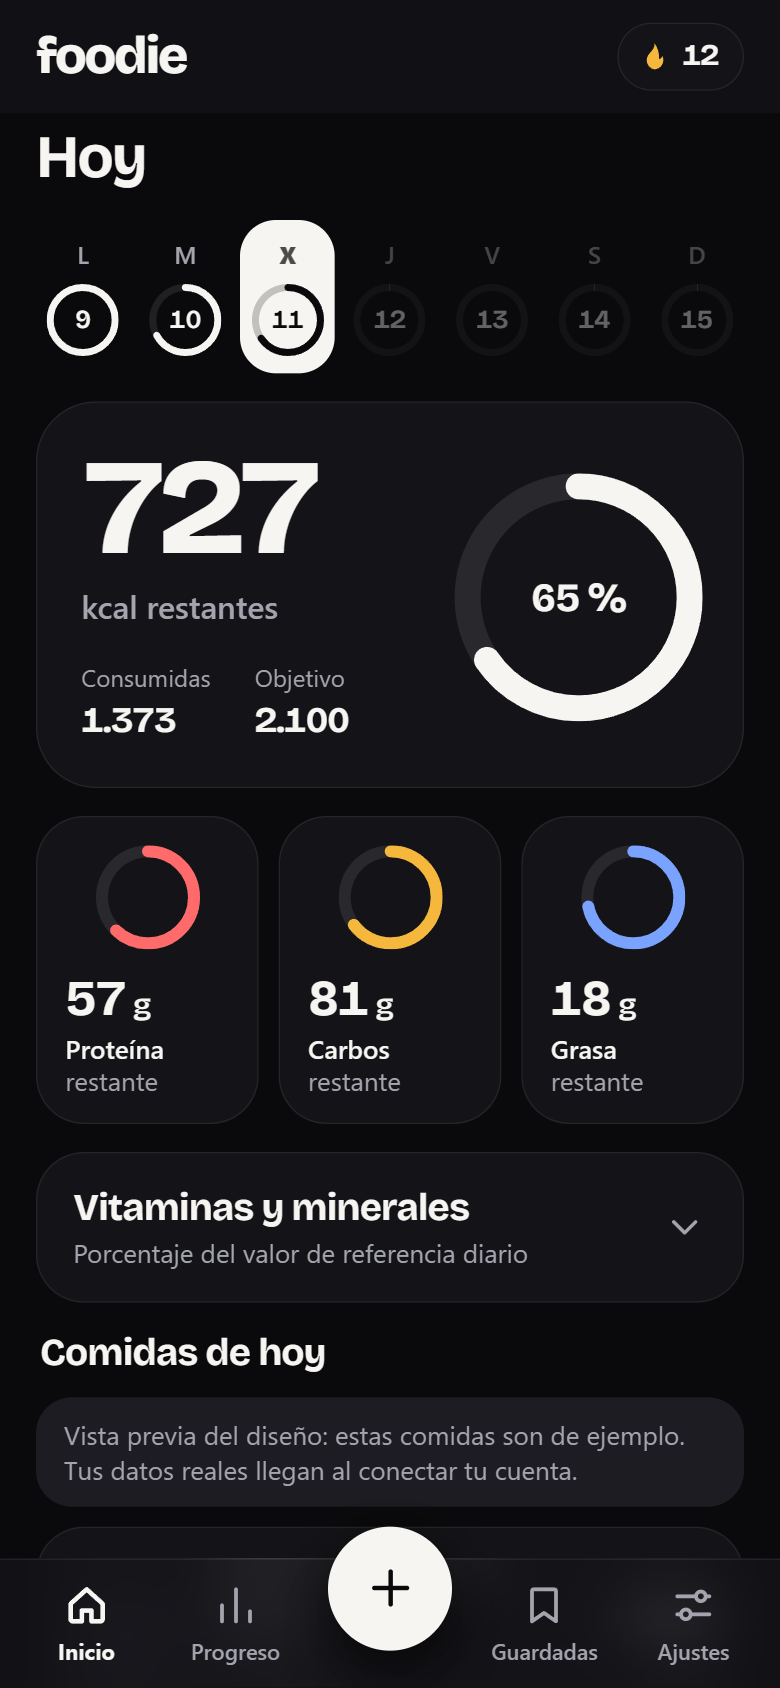
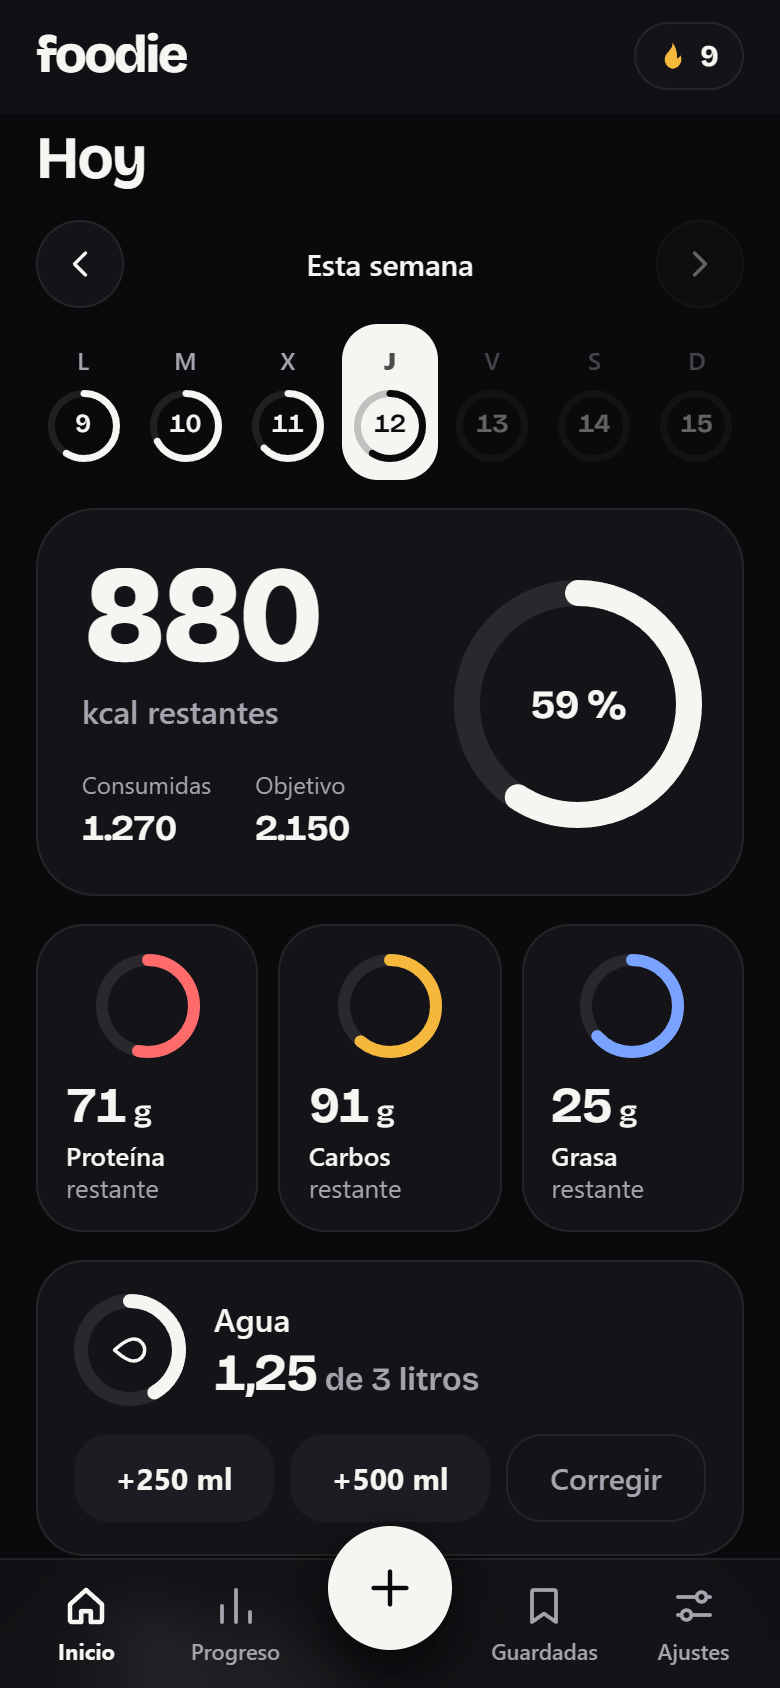
Rewrite the README around why the app exists, the decisions behind it and how it is tested

diff --git a/app/sw.js b/app/sw.js
@@ -3,7 +3,7 @@
    origins (sign-in, cloud sync, food databases, AI) are never intercepted.
    The block below is written by `npm run stamp`; a test fails if it is out of date. */
 /* stamp:start */
-const VERSION = '69d741300f21';
+const VERSION = '73d810f90be2';
 const SHELL = [
   "./",
   "./boot.js",

diff --git a/README.md b/README.md
@@ -1,70 +1,113 @@
 # foodie
 
-A mobile-first PWA to track calories, macros and micronutrients without weighing your food: take a photo of the plate, scan a barcode or search a food, then fix the estimate with a slider.
+A mobile-first PWA to track calories, macros, vitamins and minerals without weighing your food. Log a meal, then fix the portion with a slider: every number is recalculated on the device, instantly.
 
 **Live app:** https://imsothe.github.io/foodie/ (open it on your phone and add it to the home screen)
 
 <p>
-  <img src="docs/img/home-dark.png" alt="Home screen in dark mode: calories left, macro rings and the week strip" width="280">
-  <img src="docs/img/meal-editor-light.png" alt="Ingredient editor in light mode: one slider per ingredient" width="280">
+  <img src="docs/img/home-dark.png" alt="Home in dark mode: calories left, macro rings, water and the week strip" width="250">
+  <img src="docs/img/meal-editor-light.png" alt="Ingredient editor in light mode: one slider per ingredient" width="250">
+  <img src="docs/img/onboarding-dark.png" alt="First onboarding question in dark mode" width="250">
 </p>
 
-## Status
+## Why this exists
 
-Early. The app is being built in steps, and this README only lists what exists.
+I wanted to track what I eat without weighing food, and the two kinds of app on offer each fail in their own way.
 
-| Step | What | State |
-|---|---|---|
-| 1 | Architecture and data model | Done |
-| 2 | Repository, PWA shell, design system, GitHub Pages deploy | Done |
-| 3a | Local-first app: profile and goals (deficit, maintenance, surplus), daily log, search of basic foods, favourites, water, steps typed by hand, progress, export | Done |
-| 3b | Google sign-in and cloud sync | Next |
-| 4 | Barcode scanner (Open Food Facts) and photo analysis with AI | Planned |
+The fast ones (take a photo, get calories) are subscription products, and when the AI misjudges a portion, correcting it is slow: you retype numbers or ask the AI again. The free ones make you search and weigh everything, which is hard to keep up. I had already built an expense tracker for myself and learned from it that if logging takes effort, even its author stops using it.
 
-What works today, all on your device (nothing is sent anywhere, there is no account yet):
+So the goal was set before any code: **logging a meal has to be easier than not logging it**, and it has to cost nothing to run.
 
-- **Onboarding:** a few questions (sex, age, height, weight, activity, goal) and an editable daily plan for calories, protein, carbohydrates, fat, water and steps, estimated with the Mifflin-St Jeor formula. These are estimates, not medical advice.
-- **Log a meal by searching** about 100 common foods in Spain (portions, grams slider, several foods per meal), then fix the grams afterwards. Duplicate a meal on another day, save it as a favourite, delete it with undo.
-- **Home:** calories left, macros, water, steps, vitamins and minerals against sex-specific reference values, and a week strip you can move back through.
-- **Progress:** month calendar of the days you met your goal, average calories per week, weight history.
-- **Settings:** edit your profile and goals (past days keep the goals they had), export your data as JSON, delete it from the device.
+## How the idea took shape
 
-Not there yet: sign-in and cloud copy, and the other three options of the `+` menu (photo, barcode, nutrition label), which show a notice. Steps are typed by hand for now.
+I started by taking apart the experience of the photo calorie trackers that people actually stick with: a week strip at the top, one big "calories left" ring, three macro cards, a camera one tap away. That part works, so foodie keeps the pattern (with its own design, name and code).
 
-## The idea
+Then I looked for where they hurt, and it came down to one design decision. They store a meal as a result: "chicken with rice, 628 kcal". Change the portion and the result is stale, so the app has to recompute it somewhere else.
 
-Photo-based calorie trackers are fast, but when the AI misjudges a portion, fixing it is slow and usually costs another AI call. foodie stores every food the same way, whatever its source:
+foodie stores every food the same way, whatever its source:
 
 ```
 composition per 100 g  +  grams on the plate
 ```
 
-Totals are always derived (`per100 × grams / 100`), never stored. Moving a slider only changes one number, so calories, macros and 18 vitamins, minerals and other nutrients are recalculated on the device, instantly and for free. The AI is asked once for the two things it is good at: naming the ingredients and estimating their weight.
+Totals are never stored. They are always derived (`per100 × grams / 100`). Moving a slider changes one number, and calories, macros and 18 other nutrients follow on the device, with no network and no AI call. The AI is asked once for the two things it is good at: naming what is on the plate and estimating how much there is. Everything after that is arithmetic.
 
-Three ways to log, only one of them uses AI:
+That one rule shaped the rest:
 
-1. **Barcode**: exact data from the package through Open Food Facts.
-2. **Search and saved meals**: a local table of basic foods and one-tap favourites.
-3. **Photo**: a vision model returns each ingredient with its estimated grams, a min–max range and its composition per 100 g.
+- A photo, a barcode, a nutrition label and a typed search all produce the same kind of record, so there is one editor, one set of totals and one test suite for all of them.
+- Three of the four ways to log use no AI at all, so the app stays useful when the AI is wrong, slow or out of quota.
+- Micronutrients come for free: if the composition has them, the totals have them.
+
+## Decisions that mattered
+
+| Decision | Why | What it cost |
+|---|---|---|
+| No framework, no build step, no runtime dependencies | The app is a handful of screens. Plain ES modules are served as written, there is no supply chain to audit, and the Content Security Policy can stay at `script-src 'self'`. | More hand-written UI code, and a small tool (`npm run stamp`) to version the offline cache. |
+| The DOM is built with `createElement` and text nodes, never from HTML strings | Text from a food database or an AI must never be able to run as code. This makes that a property of the code, not a matter of remembering to escape. | A slightly more verbose way to write screens. |
+| Local-first: the app works fully without an account | It opens instantly, works offline, and sign-in becomes a backup feature instead of a gate. | Sync has to be designed around conflicts later (meals are keyed by id for that reason). |
+| Carbohydrate means available carbohydrate, fibre counted apart | It is what EU labels and Open Food Facts use. Mixing it with the US "total carbohydrate" definition would silently double-count fibre. | US-sourced values are converted on import, and the energy check uses the EU factors (fibre at 2 kcal/g). |
+| Food values come from USDA FoodData Central, not written by hand | The first table was typed from memory and passed every test, because the tests only checked internal consistency. I then compared it with the Spanish BEDCA database and found real gaps. BEDCA's terms do not allow republishing, so the table was rebuilt from USDA SR Legacy (public domain), each entry carrying its source id. | Seven Spain-specific foods have no USDA entry and are labelled `estimate`. |
+| Goals from a standard formula, with floors | Mifflin-St Jeor for energy, protein and fat per kg of body weight, sex-specific reference intakes. A deficit never goes below a safe floor, and the app says when the floor was applied. | These are estimates, and the app says so. It is not medical advice. |
+| Noncommercial licence instead of MIT | The code is public so it can be read and judged, but I may turn this into a product. | It is source-available, not open source in the strict sense. |
+
+## Where it stands
+
+Built in steps. This list only contains what exists.
+
+| Step | What | State |
+|---|---|---|
+| 1 | Architecture and data model | Done |
+| 2 | Repository, PWA shell, design system, automatic deploy | Done |
+| 3a | Local-first app: profile and goals, daily log, food search, favourites, water, steps, progress, export | Done |
+| 3b | Security hardening and the security test suite | Done |
+| 3c | Google sign-in and cloud sync (Firebase project is ready, the code is not) | Next |
+| 4 | Camera: photo analysis with AI, barcode (Open Food Facts), nutrition label | Planned |
+
+What works today, all on your device:
+
+- **Onboarding:** sex, age, height, weight, activity and goal (lose, maintain, gain) give an editable daily plan: calories, protein, carbohydrate, fat, water and steps.
+- **Log a meal by search** from about 100 common foods, with typical portions and a grams slider, several foods per meal. Fix the grams later, duplicate the meal on another day, save it as a favourite, delete with undo.
+- **Home:** calories left, macros, water, steps, and vitamins and minerals against reference values for your sex. A week strip you can move back through.
+- **Progress:** a month calendar of the days you met your goal, average calories per week, weight history.
+- **Settings:** edit profile and goals (past days keep the goals they had), light and dark theme, export everything as JSON, delete it from the device.
+
+Not there yet: sign-in and cloud copy, and the three camera options of the `+` menu, which show a notice. Steps are typed by hand.
+
+## Testing and security
+
+This is the part I would look at first in someone else's repo, so it is the part I spent the most care on.
+
+```bash
+npm test          # 169 tests, no dependencies, about a second
+npm run coverage  # 98 % lines, 90 % branches overall; the pure core is at 100 % lines
+```
+
+- **Unit tests** for every pure module: nutrition maths, goals (worked examples by hand for a man and a woman, floors, monotonicity), dates across daylight-saving changes, search, progress, the store.
+- **Hostile-input fuzzing.** Every function that cleans data read from storage is hit with 33,000 generated inputs from a seeded generator: wrong types, `NaN`, huge numbers, 3,000 levels of nesting, getters that throw, `__proto__` and `constructor` keys. For each one the suite asserts: it never throws, the result is valid or null, cleaning twice equals cleaning once, and `Object.prototype` is untouched. A failure prints the seed to replay it.
+- **An injection corpus** (script tags, event-handler attributes, `javascript:` URLs, bidi overrides, 100 kB strings) is pushed through every text field and through the DOM helper, which is tested against a fake DOM to prove payloads end up as text nodes.
+- **Static guards** that run in CI: the CSP stays closed, no inline code, no `innerHTML` or `eval`, the offline cache matches the published files, every workflow action is pinned to a commit hash, no secrets or personal data are tracked, storage keys stay in the app's own namespace.
+- **A real-browser check** with the same payloads seeded into storage and hostile URLs, repeatable with `tools/xss_fuzz_seed.js`.
+
+The review that led to this found real defects, each now covered by a test that fails without its fix: a crafted link (`#constructor`) that blanked the app, a meal id of `__proto__` that corrupted a stored day, invisible and text-reversing characters accepted in names, a DOM helper that would have set an inline handler if given a string, and no size limits on stored data.
+
+[SECURITY.md](SECURITY.md) has the threat model, including what is **not** defended. The most important limit: GitHub Pages serves all of an account's projects from one origin, so the browser does not isolate this app's local data from sibling apps.
 
 ## How it is built
 
-- **No framework and no build step.** Plain ES modules served as they are; the `app/` folder is what GitHub Pages publishes.
-- **Pure core, tested in Node.** `app/core/` has no DOM code and is covered by `node --test`.
-- **Strict Content Security Policy.** No inline scripts or styles, no `eval`, no third-party hosts. The UI is built with `createElement` and text nodes, never from HTML strings, so text from a product database or an AI cannot run as code.
-- **Offline first.** The service worker caches the whole app as one version. `npm run stamp` writes the file list and a content hash into `app/sw.js`, and a test fails if it is out of date.
-- **Light and dark themes** from one set of design tokens (`app/css/tokens.css`), following the system by default.
-
 ```
 app/
-  core/      nutrition, goals, data shapes, search, progress and dates (pure, tested)
-  data/      local store (localStorage, validated on load) and the table of foods
-  ui/        DOM helpers, ring, week strip, ingredient editor, screens
-  css/       tokens, base, components
-  sw.js      service worker        boot.js   theme and anti-clickjacking, before first paint
-tests/       unit tests and static guards (CSP, offline shell, pinned workflows, no secrets)
-tools/       dev server, service worker stamp, icon renderer
+  core/      nutrition, goals, data shapes, routing, search, progress, dates (pure, no DOM, 100 % line coverage)
+  data/      local store (validated on load, size-capped) and the table of foods
+  ui/        DOM helper, ring, week strip, ingredient editor, screens
+  css/       design tokens, base, components (light and dark from one set of tokens)
+  sw.js      service worker: the whole app cached as one version
+  boot.js    theme and anti-clickjacking, before first paint
+tests/       unit tests, security suite, static guards
+tools/       dev server, cache stamp, icon renderer, browser fuzz seed
 ```
+
+- **Offline first.** `npm run stamp` writes the file list and a content hash into the service worker, and a test fails if it is out of date, so a deploy can never ship a cache that does not match the files.
+- **Deploy.** Every push to `main` runs the tests and publishes `app/` to GitHub Pages. A failing test blocks the deploy.
 
 ## Run it locally
 
@@ -72,19 +115,25 @@ Requires Node 22 or newer. There is nothing to install.
 
 ```bash
 npm run dev     # http://localhost:8790
-npm test        # unit tests and static guards
+npm test
 npm run stamp   # after changing anything in app/, before committing
 ```
 
 The service worker is off on localhost so you always get fresh files; add `?sw=1` to the URL to test offline behaviour.
 
+## What I would not claim
+
+- Nutrition figures are estimates. USDA values describe typical US foods; a Spanish product can differ, and for some foods public databases disagree with each other by more than 25 % (mussels, Greek yogurt, tofu, mozzarella). Seven foods are my own estimates and say so in the data.
+- It has been exercised in desktop Chrome emulating a phone, in both themes. It has not been through a proper pass on real iOS and Android devices yet.
+- Photo estimation, when it arrives, will be an estimate too. That is the reason the slider exists.
+
 ## Credits
 
-- The interaction model (week strip, calories-left ring, macro rings, camera-first logging) follows the pattern popularised by photo calorie trackers such as Cal AI. foodie is an independent project: it shares no code, assets or branding with them.
-- Display typeface: [Bricolage Grotesque](https://github.com/ateliertriay/bricolage), SIL Open Font License 1.1 (`app/fonts/OFL.txt`).
-- Daily reference values for vitamins and minerals: Regulation (EU) No 1169/2011, with the EFSA dietary reference values for iron, magnesium, vitamin A and vitamin C by sex.
-- Food composition values (`app/data/foods.es.json`) are rounded, approximate averages in the range of standard composition tables (USDA FoodData Central, BEDCA). They were not copied line by line from those tables, so treat them as estimates; tests only check them for internal consistency.
-- Built with the help of AI coding tools.
+- The home screen layout follows a pattern common to photo calorie trackers. foodie is an independent project with its own design, name and code.
+- Food composition: U.S. Department of Agriculture, Agricultural Research Service. FoodData Central, SR Legacy (public domain, CC0). Available from https://fdc.nal.usda.gov/. Cross-checked against BEDCA, the Spanish food composition database, whose values are not reproduced here.
+- Reference intakes: Regulation (EU) No 1169/2011 and EFSA dietary reference values.
+- Typeface: [Bricolage Grotesque](https://github.com/ateliertriay/bricolage), SIL Open Font License 1.1.
+- Built with AI coding assistants. I set the goal, the constraints and the acceptance criteria, reviewed the output, and had it verified in a browser and by tests before anything was published.
 
 ## Licence
 
